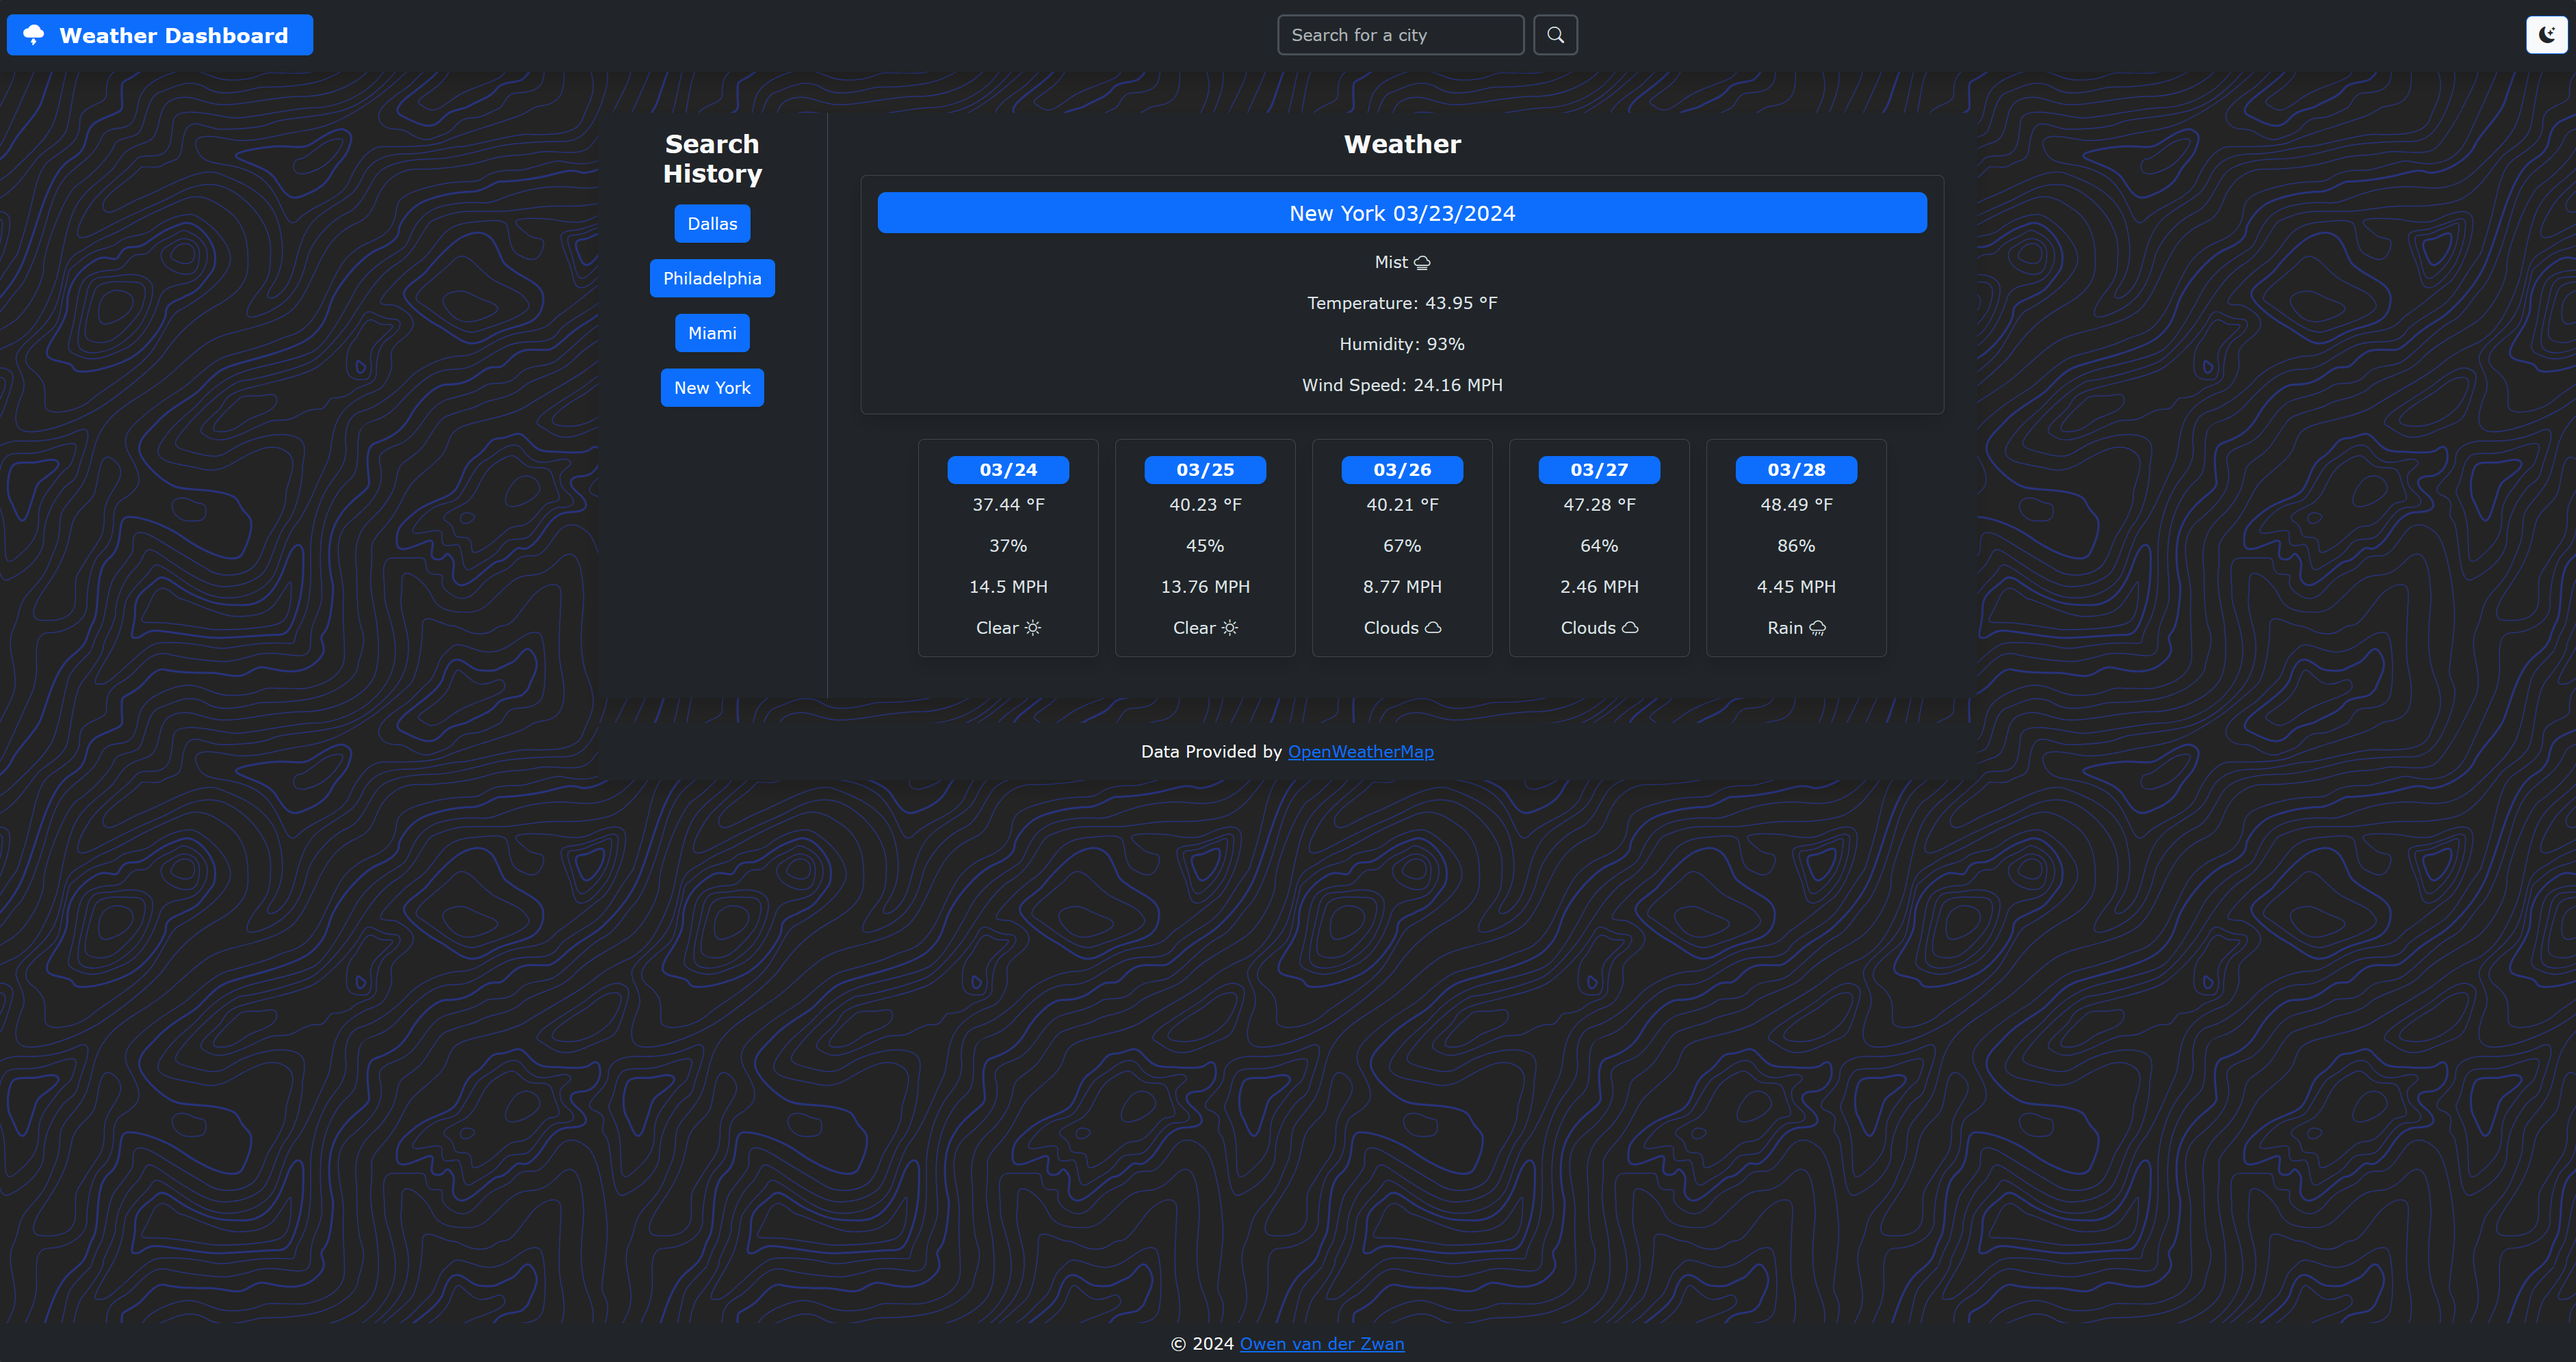
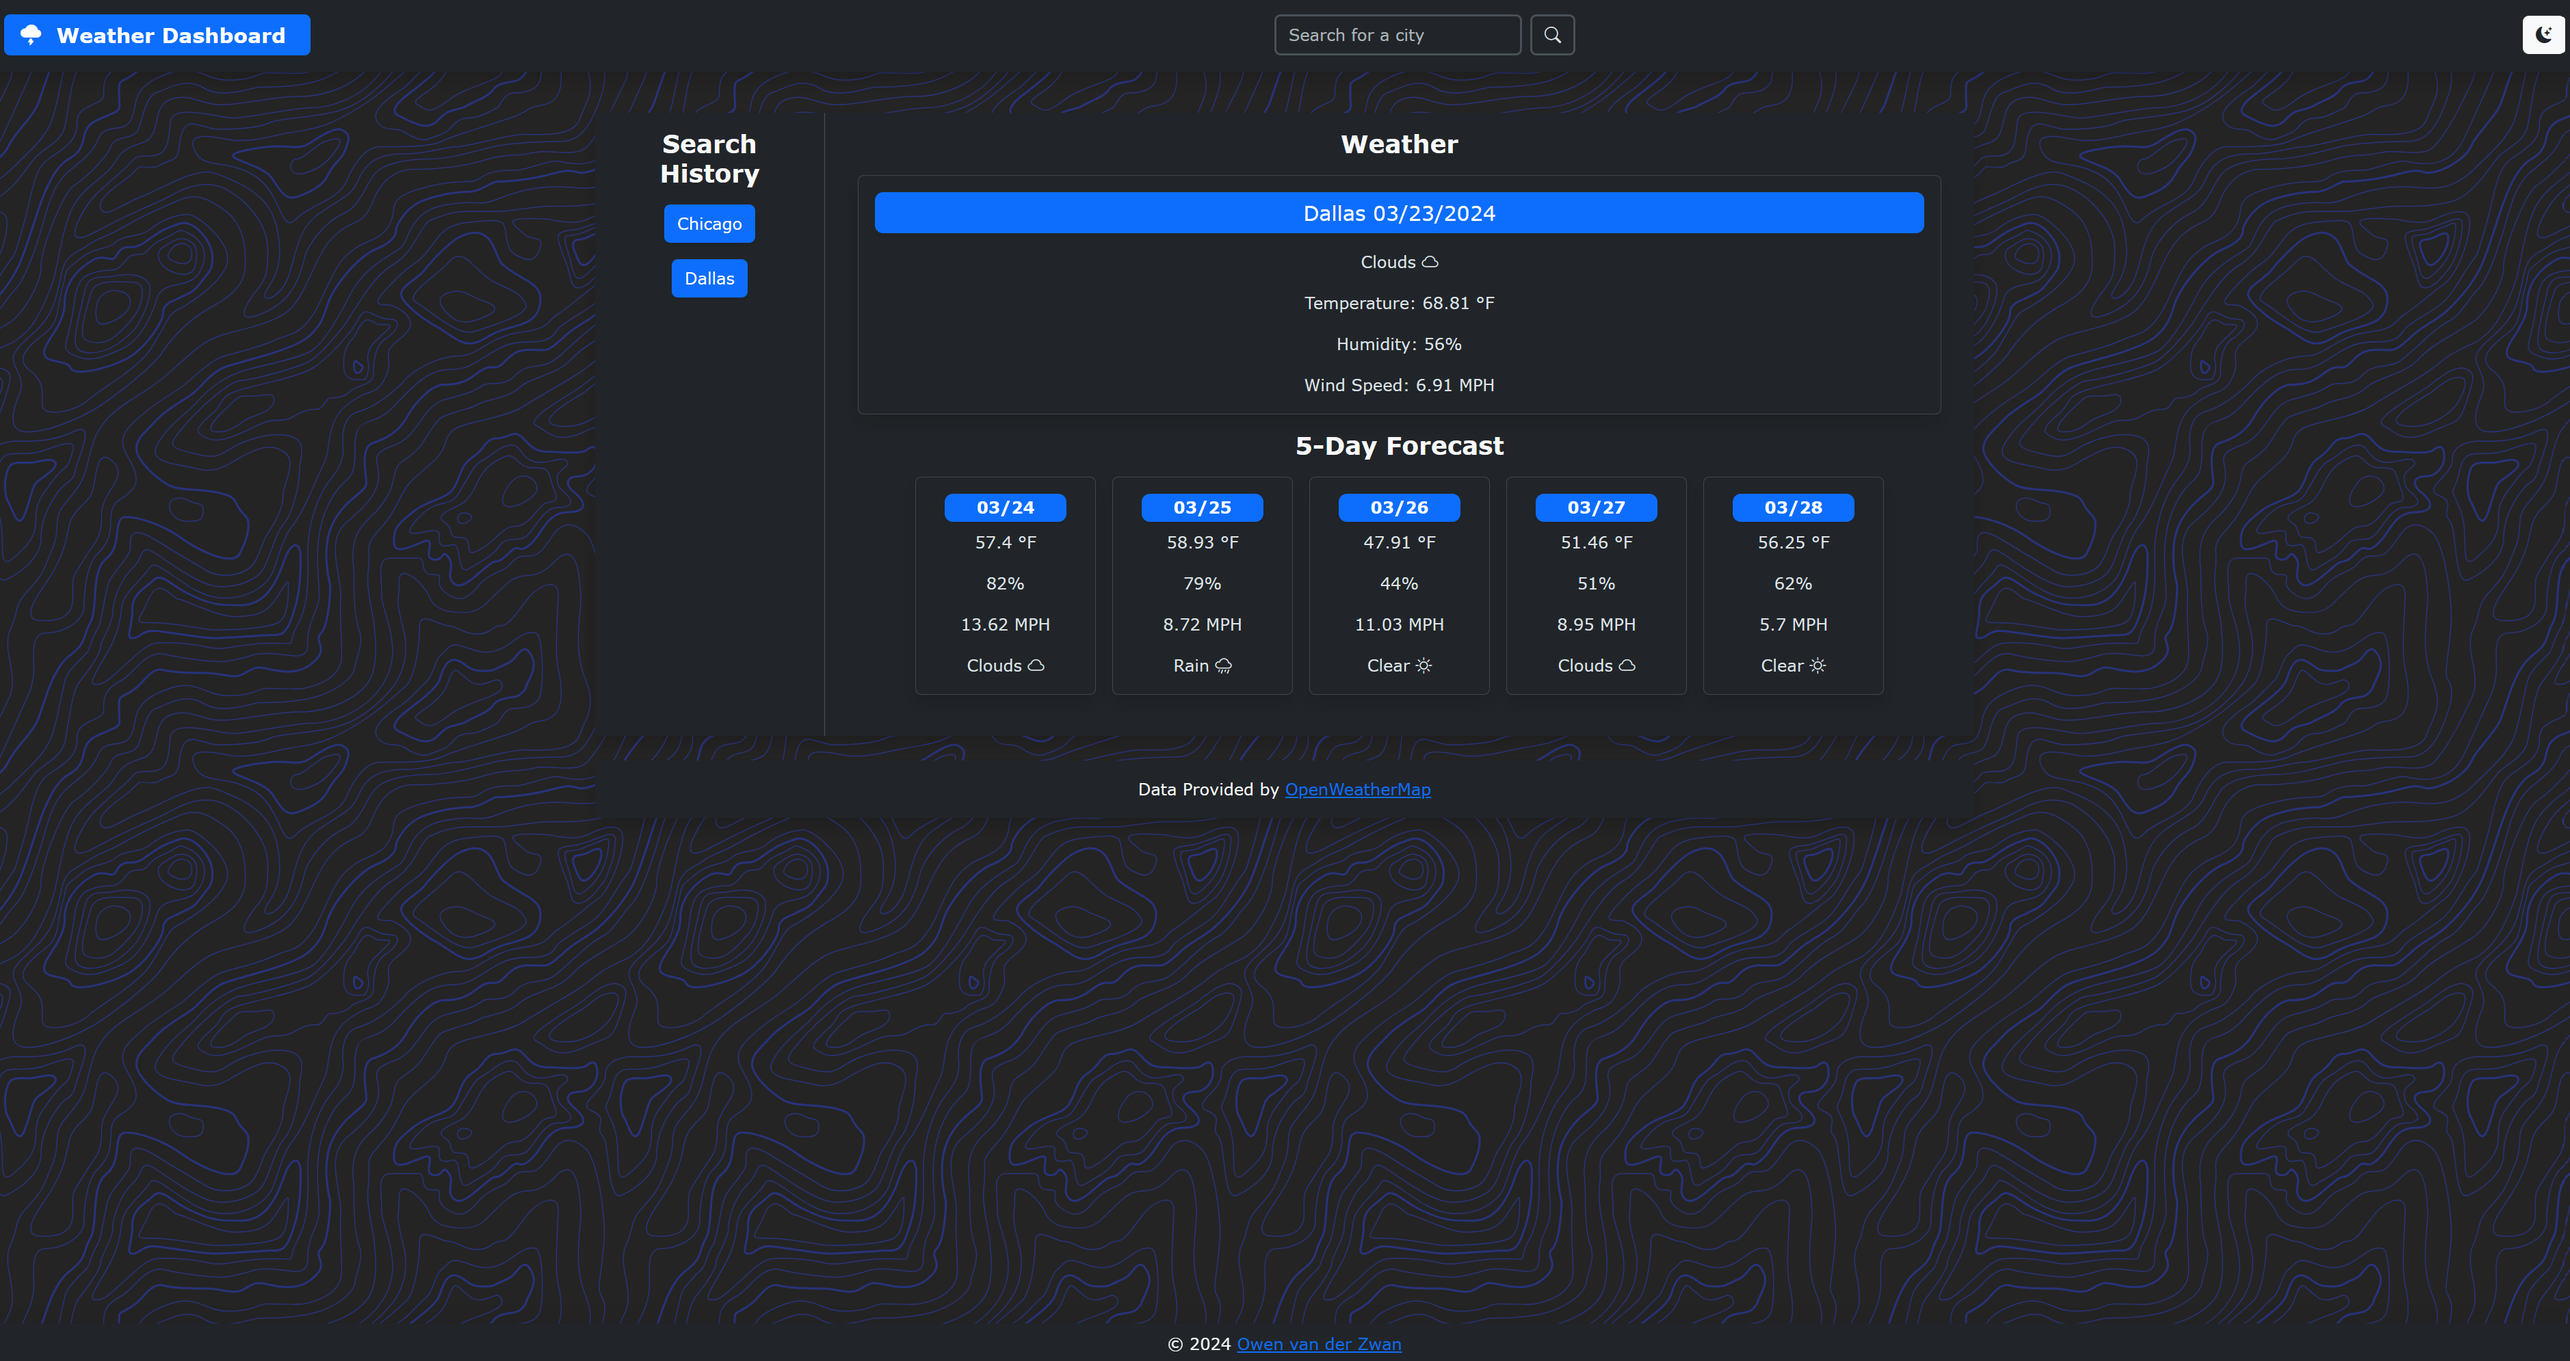
added 5 day forecast title

diff --git a/js/script.js b/js/script.js
@@ -256,9 +256,13 @@ function displayForecast(data) {
     const forecastDiv = document.createElement("div");
     forecastDiv.classList.add("row", "justify-content-center", "m-3");
     weatherDivEl.appendChild(forecastDiv);
-
+    const forecastTitle = document.createElement("h4");
+    forecastTitle.textContent = "5-Day Forecast";
+    forecastTitle.classList.add("fw-bold");
+    forecastDiv.appendChild(forecastTitle);
     for (let i = 0; i < data.list.length; i++) {
         if (data.list[i].dt_txt.indexOf("15:00:00") !== -1) {
+
             const forecastCard = document.createElement("div");
             forecastCard.classList.add("card", "m-2", "p2", "col-2", "shadow");
             forecastDiv.appendChild(forecastCard);
